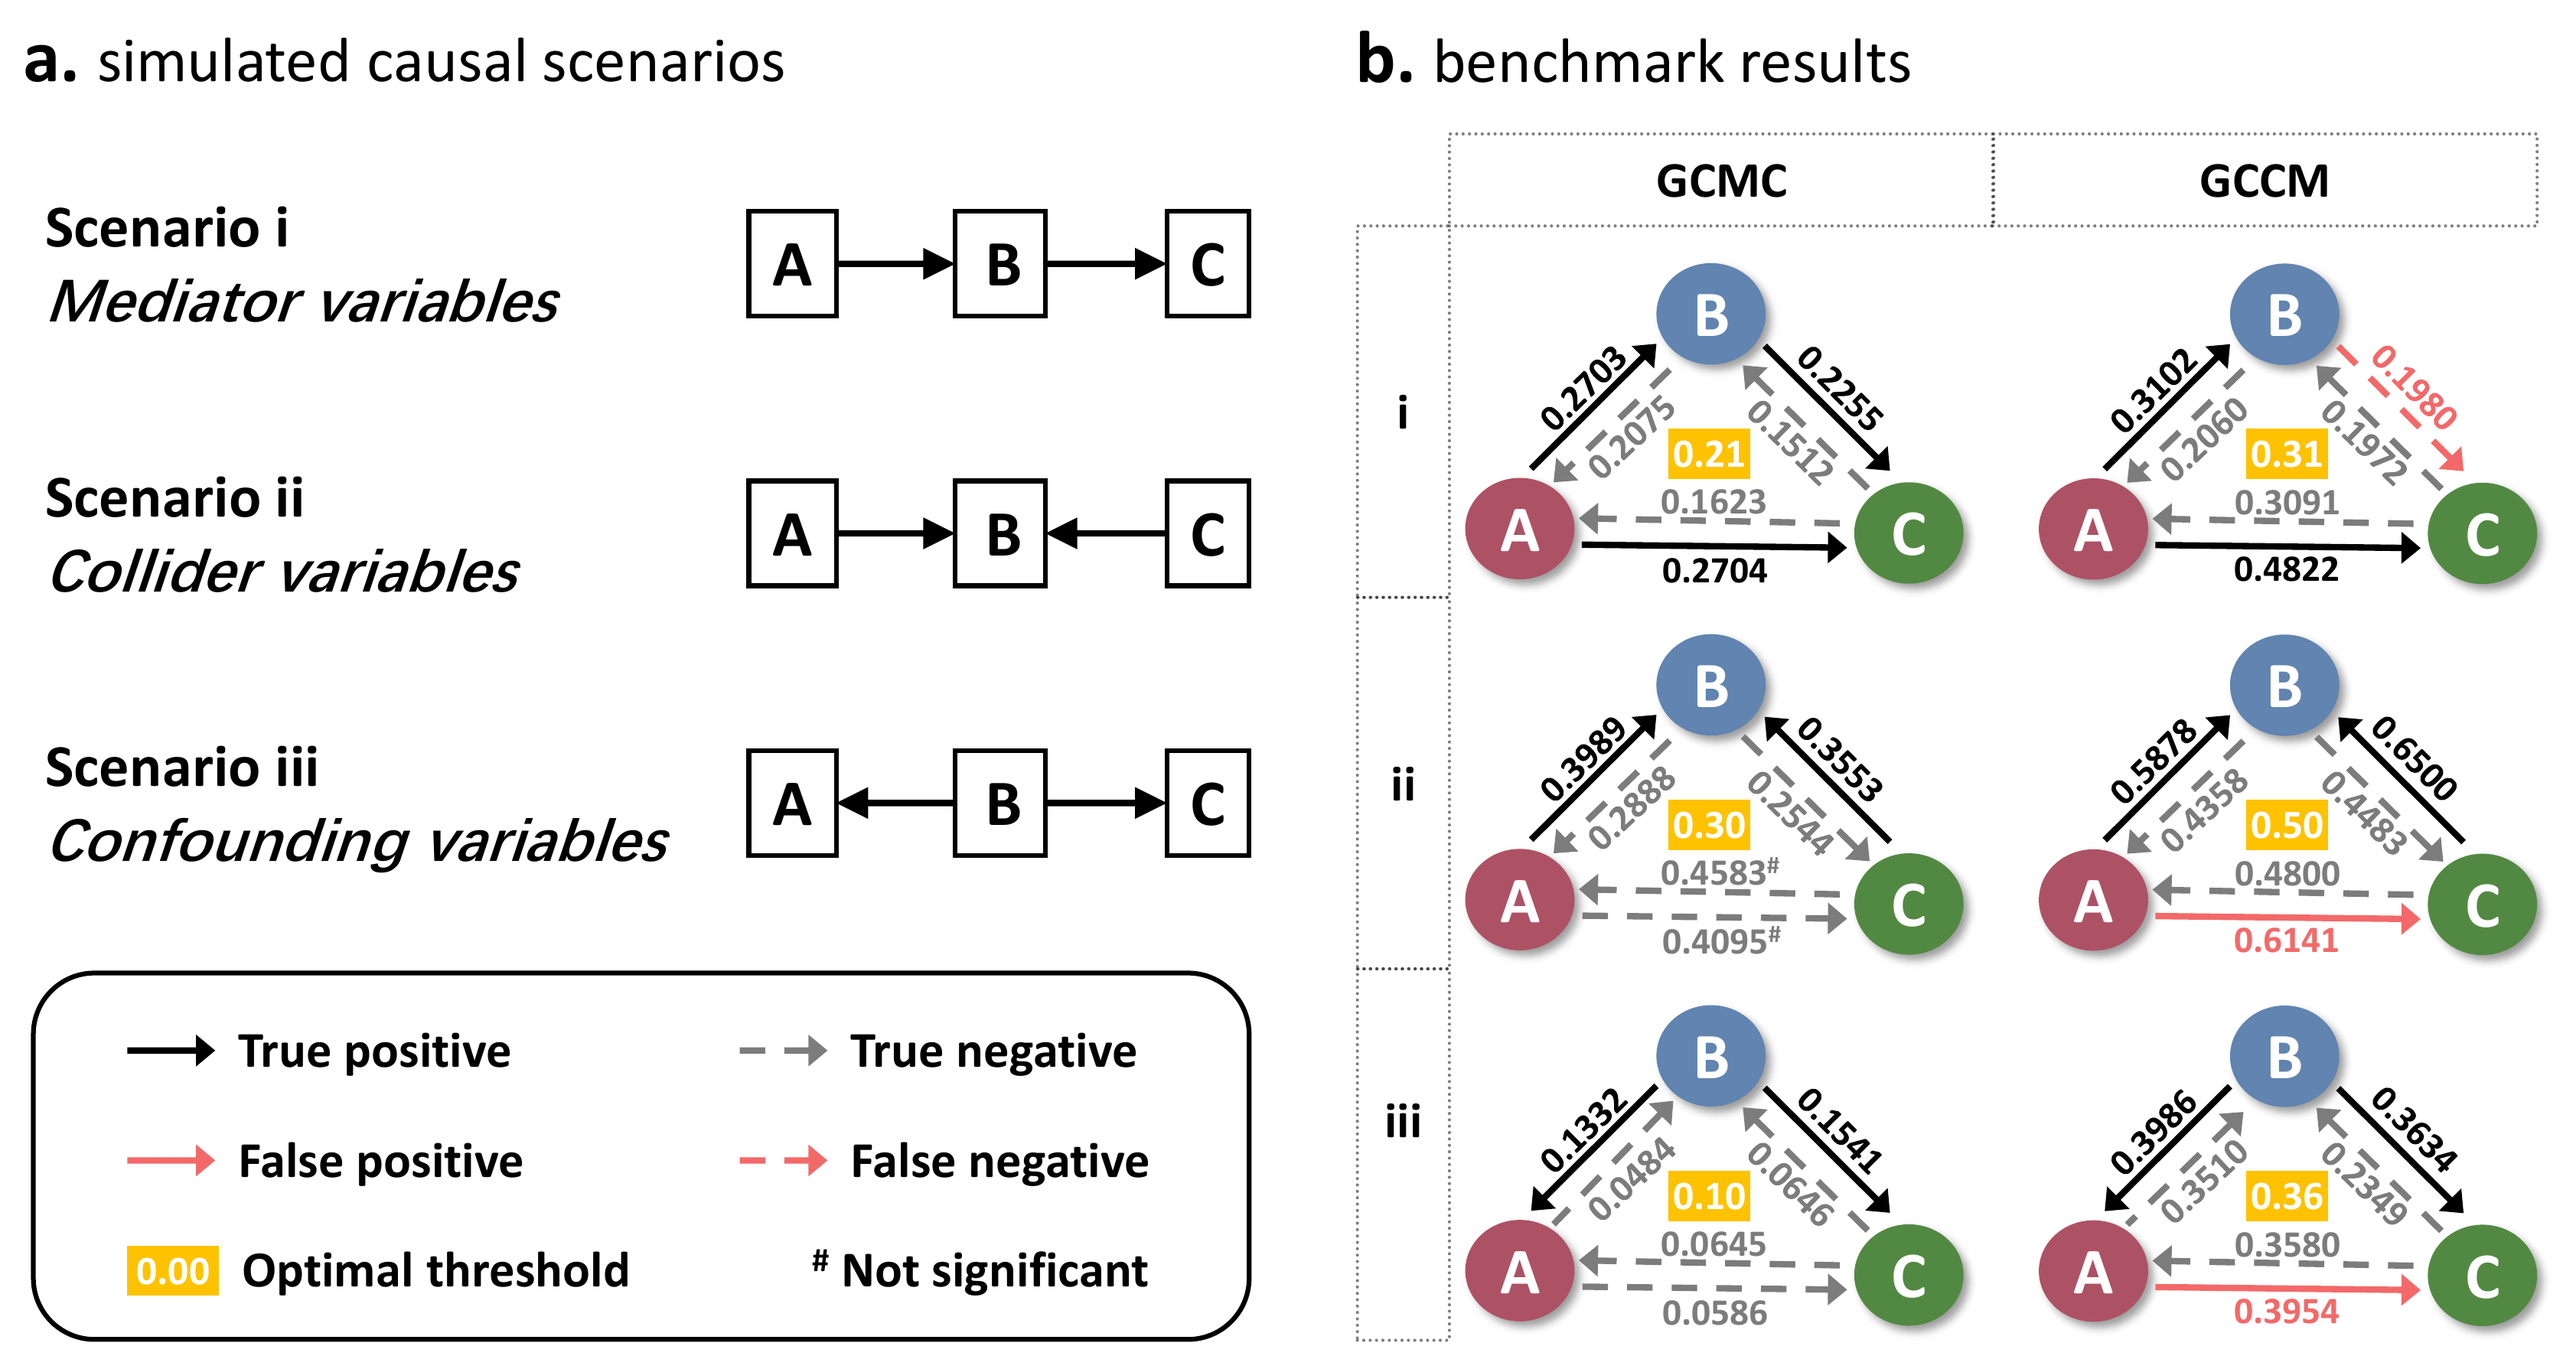
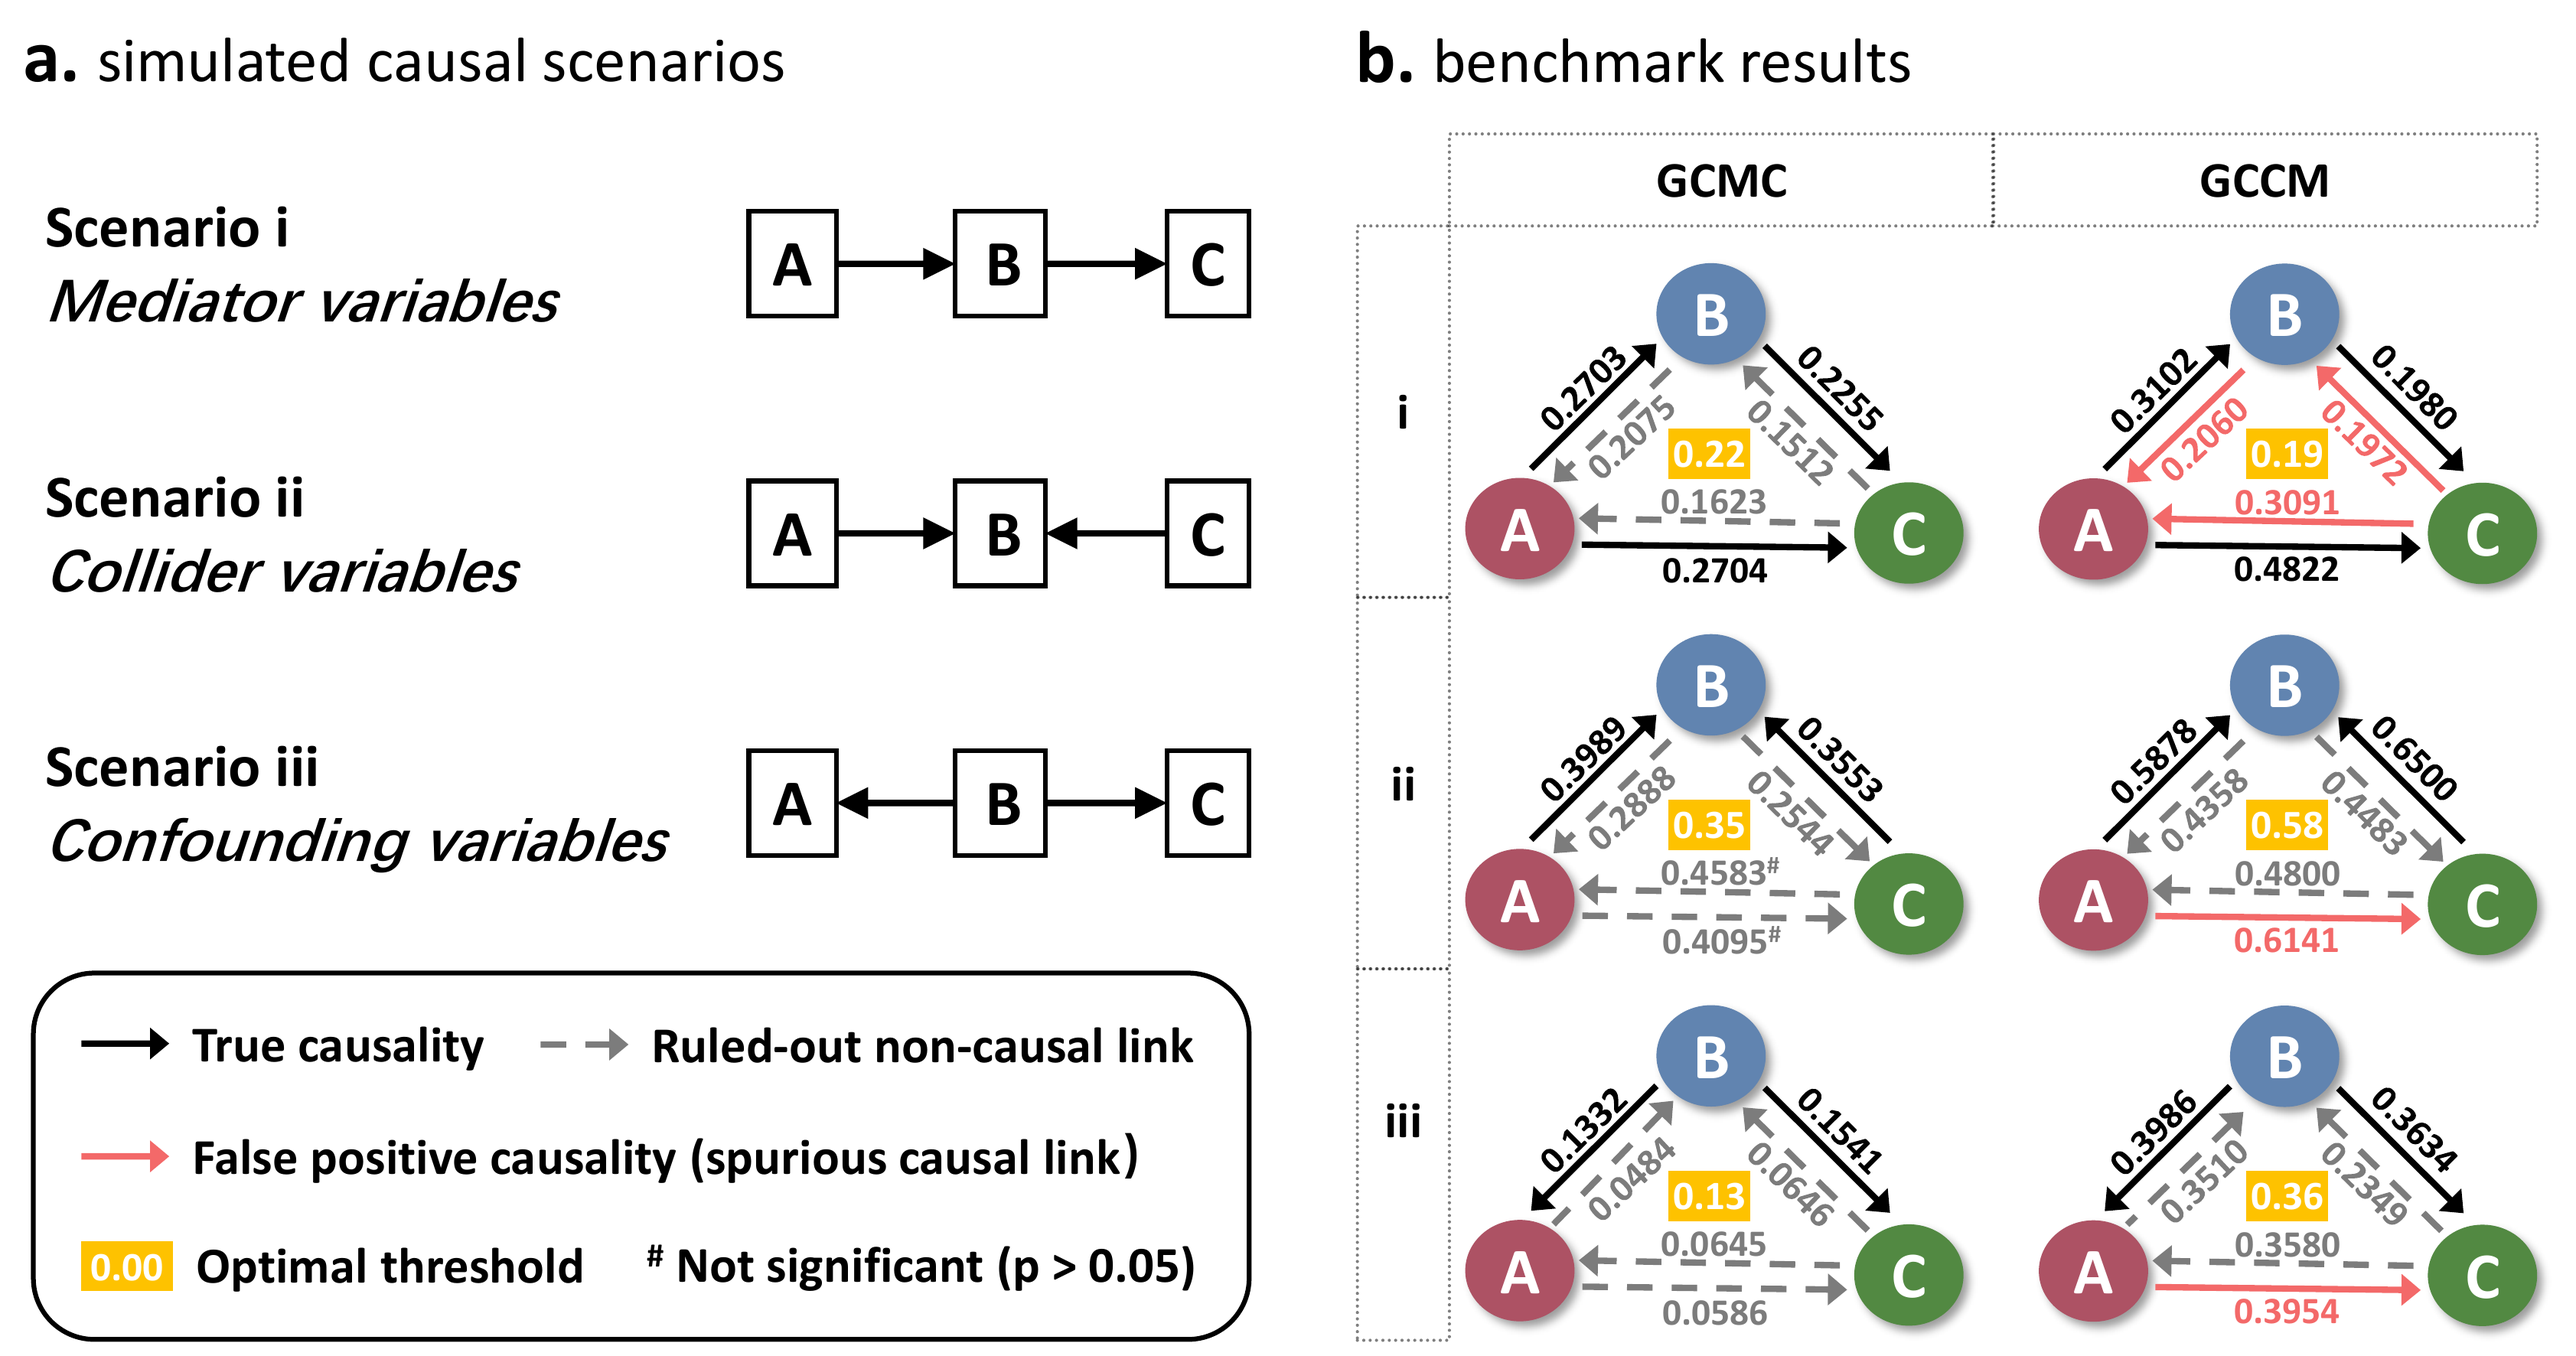
update manuscripts

diff --git a/manuscript/manuscript_origin/manuscript.tex b/manuscript/manuscript_origin/manuscript.tex
@@ -232,7 +232,7 @@ p = 2 \Phi(-|Z|),
 
 \noindent where \(\Phi(\cdot)\) is the cumulative distribution function of the standard normal distribution.
 
-The causal strength measured by GCMC is a metric rooted in dynamical systems theory, quantifying the difference between intersection cardinality curves under the null and alternative hypotheses of mutual cross mapping. To reliably infer a causal link, GCMC requires that the estimated causal strength in a given direction be both statistically significant and sufficiently large in magnitude. In bivariate systems, if neither direction yields significant causal strength, it suggests the absence of a causal relationship between the variables. If one or both directions show significance, prior domain knowledge is essential to determine whether the measured causal strength represents a genuine causal influence or arises from strong coupling or synchronization (e.g., enslaved effects), which may lead to false positives. In multivariate settings, GCMC evaluates all possible directional pairs, retaining only those that meet both the statistical significance criterion and exceed a predefined threshold (e.g., 0.1). This dual criterion—statistical significance and threshold filtering—ensures that the identified causal directions are robust and interpretable. As a result, GCMC offers a principled and reliable approach to causal inference, with enhanced resistance to false positives compared to existing methods.
+The causal strength measured by GCMC is a metric rooted in dynamical systems theory, quantifying the difference between intersection cardinality curves under the null and alternative hypotheses of mutual cross mapping. To reliably infer a causal link, GCMC requires that the estimated causal strength in a given direction be statistically significant (for example, with a $p$-value $< 0.05$, though more stringent significance levels can also be adopted depending on the application) and sufficiently large in magnitude (exceed an empirically calibrated threshold). In bivariate systems, if neither direction yields a significant causal strength, this suggests the absence of a causal relationship between the variables. If one or both directions show significance, prior domain knowledge is essential to determine whether the measured causal strength reflects a genuine causal influence or instead arises from strong coupling or synchronization (for instance, enslaved effects), which may lead to false positives. In multivariate settings, GCMC evaluates all possible directional pairs, retaining only those that satisfy both the statistical significance criterion and exceed an empirically calibrated threshold (e.g., 0.1, which has proven effective in the residential crime and population density case studies presented in this study, but can be flexibly adjusted according to the problem at hand). This combination of statistical significance and threshold filtering ensures that the identified causal directions are robust and interpretable. As a result, GCMC offers a principled and reliable approach to causal inference, with enhanced resistance to false positives compared to existing methods.
 
 \subsection{Validation strategy and experimental design}
 
